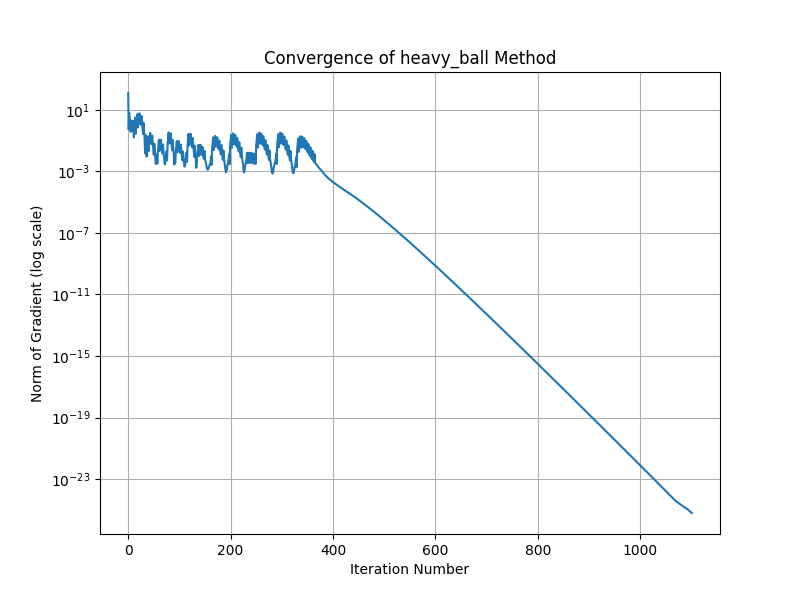
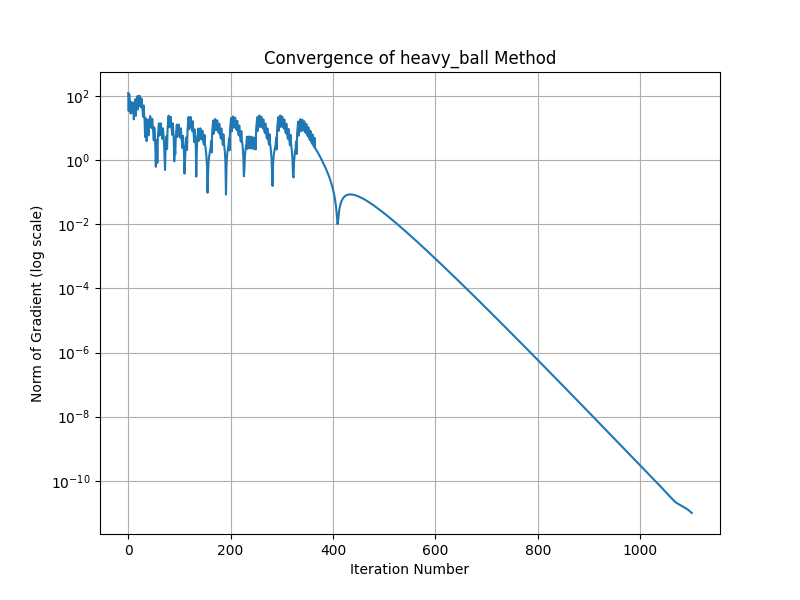
Updated new gradient_descent method

diff --git a/heavy_ball_convergence.py b/heavy_ball_convergence.py
@@ -1,19 +1,6 @@
 import numpy as np
-from numpy.linalg import norm, solve, multi_dot, eigvals
+from numpy.linalg import norm, eigvals
 import matplotlib.pyplot as plt
-
-""" 
- @description: heavy ball method
- @parameters :
-    @f    : objective function  
-    @Df: gradient of objective function
-    @D2f: hessian of objective function
-    @x0         : starting point 
-    @tol
-        :
- tolerace for stopping criteria 
-    @maxIter    : maximum iteration for stopping criteria
- """
 
 def f(x):
     return 100 * (x[1] - x[0]**2)**2 + (1 - x[0])**2
@@ -31,63 +18,84 @@ def D2f(x):
 
 
 def compute_alpha_beta(x, D2f):
-    e_vals = np.linalg.eigvals(D2f(x))
-    lambda_min, lambda_max = np.min(e_vals), np.max(e_vals)
+    eigenvalues = eigvals(D2f(x))
+    lambda_min, lambda_max = np.min(eigenvalues), np.max(eigenvalues)
+    
     if (lambda_min >= 0) and (lambda_max >= 0):
         alpha = 4 / (np.sqrt(lambda_min) + np.sqrt(lambda_max))**2
-        beta = ((np.sqrt(lambda_min) - np.sqrt(lambda_max))**2 / (np.sqrt(lambda_min) + np.sqrt(lambda_max))**2)
+        beta = (
+            (np.sqrt(lambda_min) - np.sqrt(lambda_max))**2 
+             / (np.sqrt(lambda_min) + np.sqrt(lambda_max))**2
+        )
         return alpha, beta
     return 1e-3, 0.9
 
-def gradient_descent(f, Df, x0, alpha, tol, maxIter):
-    x = x0
-    path = [x]
-    grad_norms = [norm(Df(x))]
-    
-    for k in range(int(maxIter)):
-        grad = Df(x)
-        if norm(grad) < tol:
-            break
-        x = x - alpha * grad
-        path.append(x)
-        grad_norms.append(norm(Df(x)))
-    
-    return x, k, np.array(path), grad_norms
+def gradient_descent(f, Df, x0, alpha, tol, max_iter):
+    path = [x0.copy()]
+    grad_norms = [norm(Df(x0))]
+    xk = x0.copy()
+    k = 0
 
-def heavy_ball(f, Df, D2f, x0, alpha0, tol, maxIter):
-    path      = [x0]
+    while norm(Df(xk)) > tol and k <= max_iter:
+        xk = xk - alpha * Df(xk)
+        k += 1
+        path.append(xk.copy())
+        grad_norms.append(norm(Df(xk)))
+
+    path = np.array(path)
+
+    if norm(Df(xk)) <= tol:
+        print(
+            "Gradient Descent found the minimizer at {x} in {iter} iterations successfully, gradient norm is {nrm}."
+            .format(x=xk, iter=k, nrm=norm(Df(xk)))
+        )
+    else:
+        print(
+            "Gradient Descent was unable to locate minimizer after {max_iterations} iterations, last position is at {x}, gradient norm is {nrm}"
+            .format(max_iterations=int(max_iter), x=xk, nrm=norm(Df(xk)))
+        )
+
+    return xk, k, path, grad_norms
+
+
+def heavy_ball(f, Df, D2f, x0, alpha0, tol, max_iter):
+    path       = [x0.copy()]
     grad_norms = [norm(Df(x0))]                           
-    k         = 0
-    xk        = x0    
-    pk        = -Df(xk)
-    alpha = alpha0 # variable initial step length
-    beta  = 0.9  # large initial heavy ball
+    k          = 0
+    xk         = x0.copy()    
+    alpha      = alpha0 # variable initial step length
+    beta       = 0.9  # large initial heavy ball
+    k          = 0
+    pk         = -Df(xk)
+
     # Compute the first step separately. 
     if norm(pk) < tol:
-        return xk, 0, path, grad_norms
-    else:
-        k = k + 1
-        xk = xk + alpha * pk 
-        path.append(xk)
-        grad_norms.append(norm(f(xk)))
+        return xk, k, np.array(path), grad_norms
+    
+    xk = xk + alpha * pk 
+    k = k + 1
+
+    path.append(xk.copy())
+    grad_norms.append(norm(Df(xk)))
+
     # The rest of iterations
     pk = -Df(xk)
-    while norm(pk) > tol and k <= maxIter: 
+    while norm(pk) > tol and k <= int(max_iter): 
         xk  = xk + alpha * pk + beta * (xk - path[-2])
         pk  = -Df(xk)
-        k   = k + 1
-        path.append(xk)
-        grad_norms.append(norm(f(xk)))
+        k  += 1
+        path.append(xk.copy())
+        grad_norms.append(norm(Df(xk)))
         alpha, beta = compute_alpha_beta(xk, D2f)
     path = np.array(path)
     if norm(pk) <= tol:
-        print("Found the minimizer at {x} with {iter} iterations successfully, gradient's norm is {nrm}.".format(x=xk,iter=k,nrm=norm(pk)))
+        print("Heavy Ball found the minimizer at {x} in {iter} iterations successfully, gradient norm is {nrm}.".format(x=xk,iter=k,nrm=norm(pk)))
     else:
-        print("Unable to locate minimizer within maximum iterations, last position is at {x}, gradient's norm is {nrm}".format(x=xk,nrm=norm(pk)))
+        print("Heavy Ball was unable to locate minimizer after {max_iterations} iterations, last position is at {x}, gradient norm is {nrm}".format(max_iterations=int(max_iter), x=xk,nrm=norm(pk)))
     return xk, k, path, grad_norms
 
 # FletcherReeves' Heavy Ball method
-def heavy_ball_fletcher_reeves(f, Df, x0, alpha0, tol, maxIter):
+def heavy_ball_fletcher_reeves(f, Df, x0, alpha0, tol, max_iter):
     path = [x0]
     grad_norms = [norm(Df(x0))]
     k = 0
@@ -103,7 +111,7 @@ def heavy_ball_fletcher_reeves(f, Df, x0, alpha0, tol, maxIter):
         path.append(xk_1)
         grad_norms.append(norm(Df(xk_1)))
     
-    while norm(Df(xk_1)) > tol and k <= maxIter:
+    while norm(Df(xk_1)) > tol and k <= max_iter:
         beta_k = (norm(Df(xk_1))**2) / (norm(Df(xk))**2)
         xk, xk_1 = xk_1, xk_1 + alpha * (-Df(xk_1)) + beta_k * (xk_1 - xk)
         k += 1
@@ -111,33 +119,40 @@ def heavy_ball_fletcher_reeves(f, Df, x0, alpha0, tol, maxIter):
         grad_norms.append(norm(Df(xk_1)))
     path = np.array(path)
     if norm(Df(xk_1)) <= tol:
-        print("Found the minimizer at {x} with {iter} iterations successfully, gradient's norm is {nrm}.".format(x=xk,iter=k,nrm=norm(pk)))
+        print("Fletcher-Reeves Heavy Ball found the minimizer at {x} in {iter} iterations successfully, gradient norm is {nrm}.".format(x=xk,iter=k,nrm=norm(pk)))
     else:
-        print("Unable to locate minimizer within maximum iterations, last position is at {x}, gradient's norm is {nrm}".format(x=xk,nrm=norm(pk)))
+        print("Fletcher-Reeves Heavy Ball was unable to locate minimizer after {max_iterations} iterations, last position is at {x}, gradient norm is {nrm}".format(max_iterations=int(max_iter), x=xk,nrm=norm(pk)))
     return xk_1, k, path, grad_norms
 
-if __name__ == "__main__":
-    x0 = np.array([1.2, 1.2]) # Harder to converge 
-    tol = 1e-11 
-    maxIter = 1e6 
-    alpha0 = 1e-3
-
-    x_gd, iter_gd, path_gd, grad_norms_gd = gradient_descent(f, Df, x0, 1e-3, tol, maxIter)
-
-    x_heavy_ball, iter_default, path_default, grad_norms_heavy_ball = heavy_ball(f, Df, D2f, x0, alpha0, tol, maxIter) 
-
-    x_fletcher_reeves, iter_fletcher_reeves, path_fletcher_reeves, grad_norms_fletcher_reeves = heavy_ball_fletcher_reeves(f, Df, x0, alpha0, tol, maxIter)
-
-    def plotting(method, grad_norms):
+def plotting(method_name, grad_norms):
         plt.figure(figsize=(8, 6))
         plt.plot(range(len(grad_norms)), grad_norms)
         plt.yscale("log")
         plt.xlabel("Iteration Number")
         plt.ylabel("Norm of Gradient (log scale)")
-        plt.title(f"Convergence of {method} Method")
+        plt.title(f"Convergence of {method_name} Method")
         plt.grid(True)
-        plt.savefig(f"{method}.png")
+        plt.savefig(f"{method_name}.png")
         plt.close()
+
+if __name__ == "__main__":
+    x0 = np.array([1.2, 1.2]) # Harder to converge 
+    tol = 1e-11 
+    max_iter = 1e6 
+    alpha0 = 1e-3
+
+    x_gd, iter_gd, path_gd, grad_norms_gd = gradient_descent(
+        f, Df, x0, alpha0, tol, max_iter
+    )
+
+    x_heavy_ball, iter_default, path_default, grad_norms_heavy_ball = heavy_ball(
+        f, Df, D2f, x0, alpha0, tol, max_iter
+    ) 
+
+    x_fletcher_reeves, iter_fletcher_reeves, path_fletcher_reeves, grad_norms_fletcher_reeves = heavy_ball_fletcher_reeves(
+        f, Df, x0, alpha0, tol, max_iter
+    )
+
     plotting("gradient_descent", grad_norms_gd)
     plotting("heavy_ball", grad_norms_heavy_ball)
     plotting("fletcher_reeves", grad_norms_fletcher_reeves)
